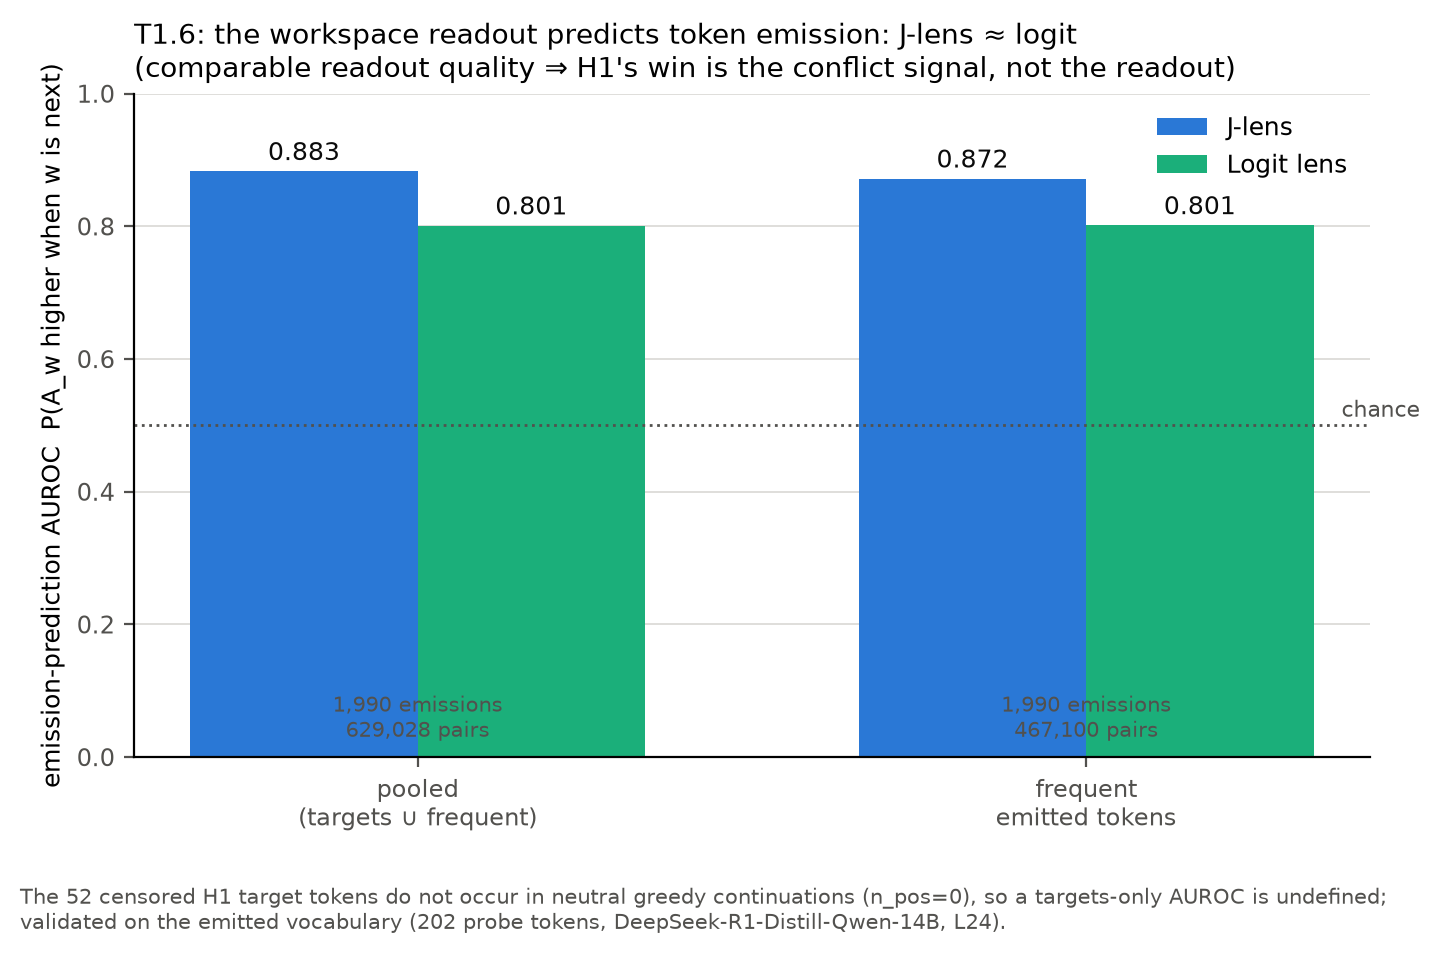
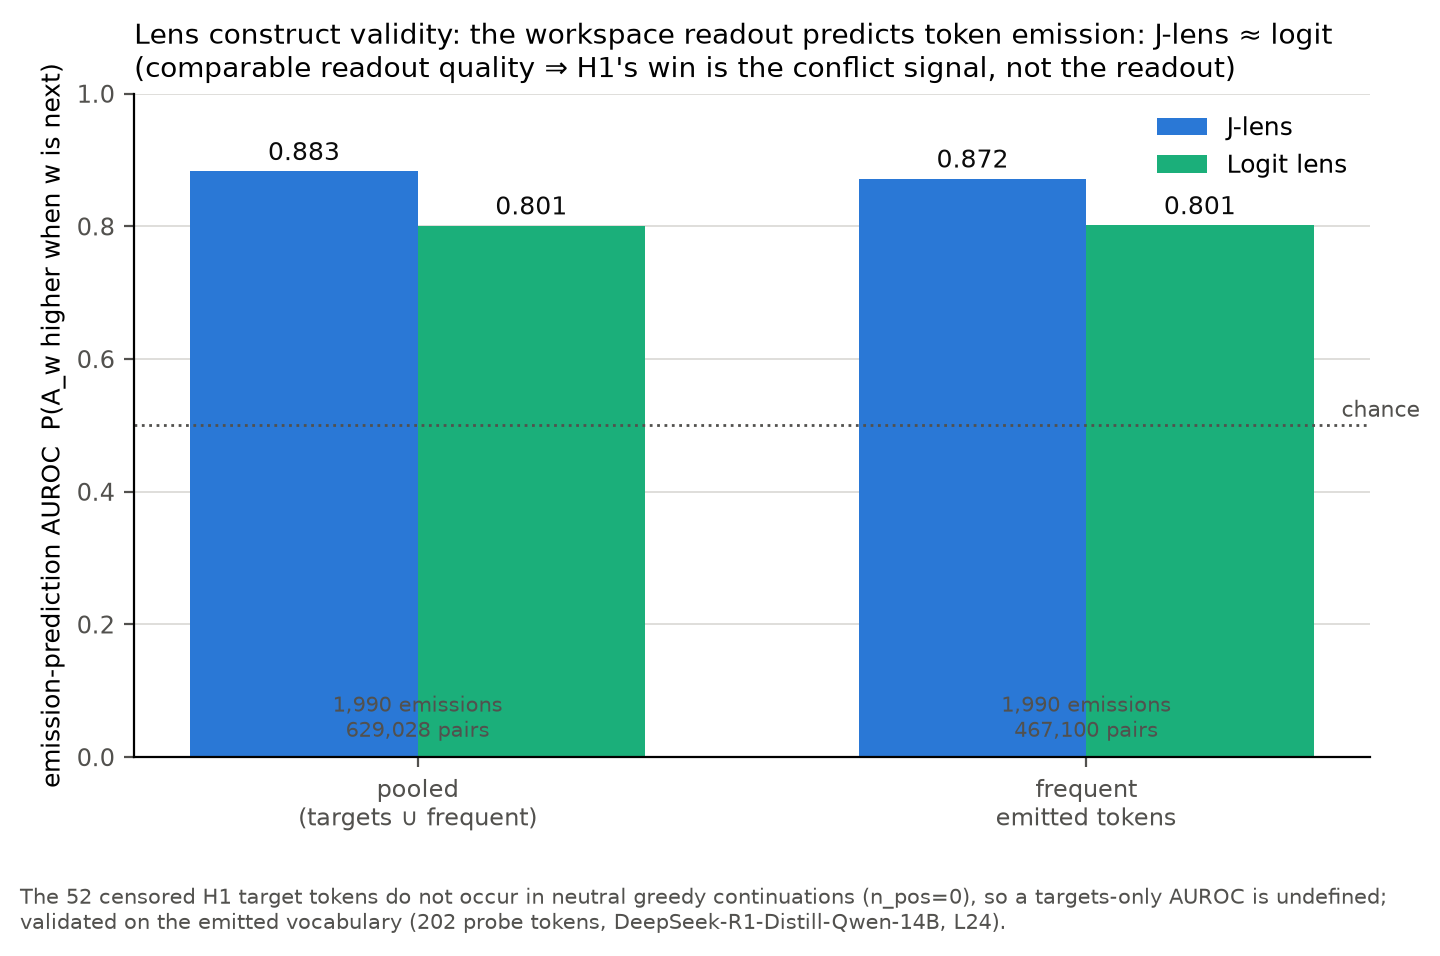
tools: fix internal codename leak in 4 figure titles
A pre-publication review flagged leaked internal
codenames ("T1.6", "T1.2", "T1.3", "T1.4") baked into 4 rendered figure
titles via matplotlib set_title/suptitle -- verified real (absent from the
notes/tex text, present only in the PNGs). Replaced with the descriptive
names already used in the write-up build script's figure-caption table and regenerated all 4
figures.

The rest of the review was recorded for the author: 5 verified text
fixes (an "audition" typo, two register/grammar paragraphs, and a
paired fig3/fig4 item relocating a mis-anchored benign-China-control
paragraph to the figure it actually belongs under) and 16 decisions
recording the reviewer's 14 methodological criticisms plus the
duplicate-caption and repackaging questions. No text was changed for
those: several imply a rerun or a new control arm, which is the
author's scope, cost and time call against the deadline.

Changed region(s): [[0.0938, 0.0303, 0.9375, 0.0607]]

diff --git a/exp/fig_construct_validity.py b/exp/fig_construct_validity.py
@@ -60,7 +60,7 @@ def main():
     ax.set_xticklabels(labels, fontsize=9)
     ax.set_ylabel("emission-prediction AUROC  P(A_w higher when w is next)", fontsize=9)
     ax.set_ylim(0.0, 1.0)
-    ax.set_title("T1.6: the workspace readout predicts token emission: J-lens ≈ logit\n"
+    ax.set_title("Lens construct validity: the workspace readout predicts token emission: J-lens ≈ logit\n"
                  "(comparable readout quality ⇒ H1's win is the conflict signal, not the readout)",
                  fontsize=10, loc="left")
     ax.legend(frameon=False, fontsize=9, loc="upper right")

diff --git a/exp/fig_status_contrast.py b/exp/fig_status_contrast.py
@@ -157,9 +157,9 @@ def main():
     ax1.grid(True, color=GRID, lw=0.6, axis="x")
     ax2.grid(True, color=GRID, lw=0.6, axis="y")
 
-    head = ("T1.4 status-contrast probe D: CALIBRATED"
+    head = ("The status-contrast probe D: CALIBRATED"
             if calibrated else
-            "T1.4 status-contrast probe D: UNCALIBRATED (discarded per pre-registration)")
+            "The status-contrast probe D: UNCALIBRATED (discarded per pre-registration)")
     fig.suptitle(f"{head}  (DeepSeek-R1-Distill-Qwen-14B, L{s['layer']})",
                  fontsize=10, y=1.02)
     fig.tight_layout()

diff --git a/exp/fig_h1_instrumented.py b/exp/fig_h1_instrumented.py
@@ -106,7 +106,7 @@ def main():
         ax.set_axisbelow(True)
 
     fig.suptitle(
-        "T1.2: J-lens concealment signal on censored referents: robust across layers and "
+        "The instrumented H1 rerun: J-lens concealment signal on censored referents: robust across layers and "
         "fires on OTHER censored topics (DeepSeek-R1-Distill-Qwen-14B, L%d)" % primary,
         fontsize=10.5, y=1.02,
     )

diff --git a/exp/fig_benign_china.py b/exp/fig_benign_china.py
@@ -100,7 +100,7 @@ def main():
         ax.set_axisbelow(True)
 
     fig.suptitle(
-        "T1.3: benign-China control: the censored anchor lights up on ordinary China content, "
+        "The benign-China control: the censored anchor lights up on ordinary China content, "
         "not only under concealment (DeepSeek-R1-Distill-Qwen-14B, L%d)" % s["layer"],
         fontsize=10, y=1.02,
     )
